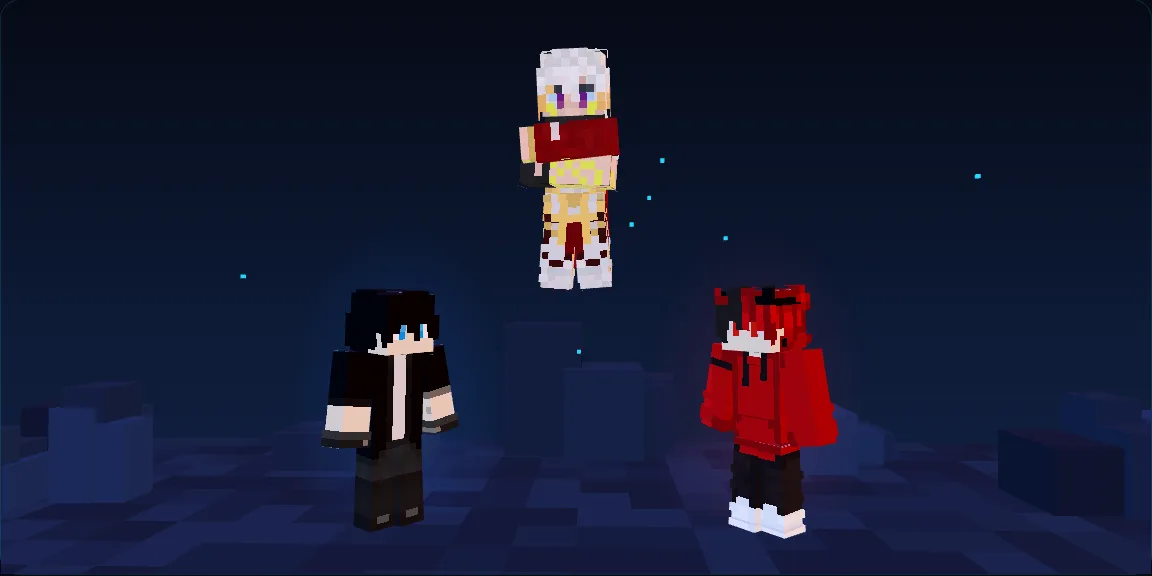
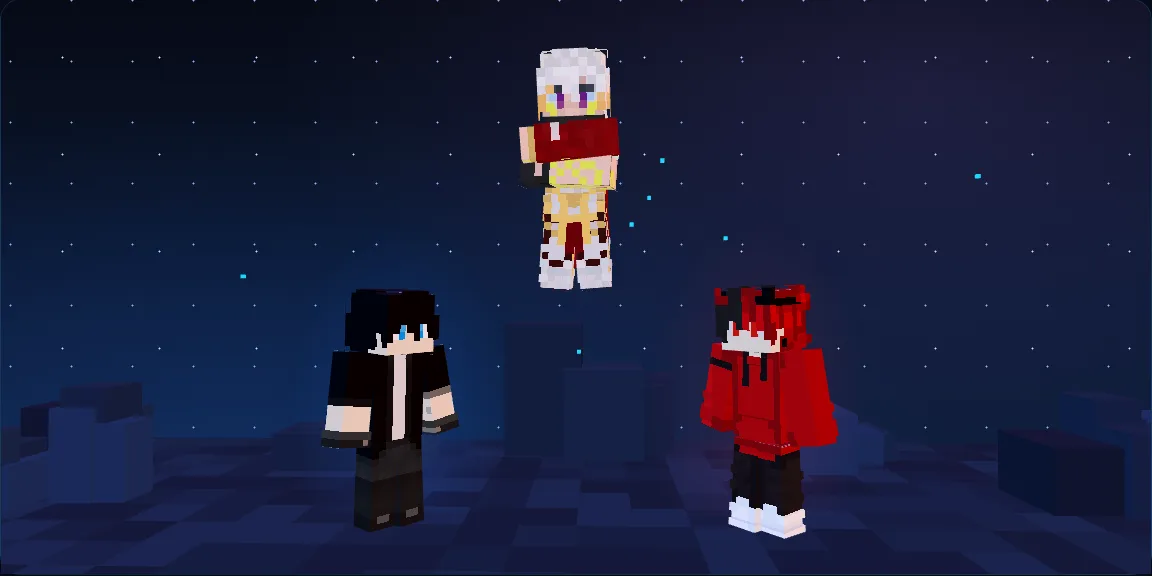
v4 fase G (e): ambiente com parcimonia (estrelas quadradas estaticas e nevoa nos palcos da batalha e da equipe, reflexo de borda de 1,2 s uma vez por visita) e poster da batalha atualizado

Changed region(s): [[0.625, 0.0, 0.9688, 0.3125], [0.0938, 0.625, 0.2812, 0.7812]]

diff --git a/web/src/app/globals.css b/web/src/app/globals.css
@@ -381,3 +381,34 @@ dialog.lightbox[open] {
 .apoio-card:has(:focus-visible) {
   box-shadow: 0 0 0 1px color-mix(in srgb, var(--luz) 18%, transparent), 0 0 24px color-mix(in srgb, var(--luz) 18%, transparent);
 }
+
+/* Ambiente (v4-03 §11.3): estrelas quadradas estáticas e névoa azul/violeta atrás das mídias (nunca sobre texto), e um reflexo
+   de borda de 1,2 s por visita. Sem parallax e sem movimento com "Reduzir animações". */
+.ambiente-palco {
+  background-image:
+    radial-gradient(ellipse at 20% 85%, rgba(22, 116, 255, 0.18), transparent 55%),
+    radial-gradient(ellipse at 80% 15%, rgba(165, 123, 250, 0.14), transparent 50%),
+    radial-gradient(#cfe7ff 0.8px, transparent 1.2px),
+    radial-gradient(#8fb8ff 0.8px, transparent 1.2px),
+    linear-gradient(180deg, #060a16 0%, #0d1a36 55%, #122344 100%);
+  background-size: auto, auto, 97px 97px, 61px 61px, auto;
+  background-position: 0 0, 0 0, 13px 9px, 40px 31px, 0 0;
+}
+.reflexo-borda {
+  position: absolute;
+  inset: 0 0 auto 0;
+  height: 2px;
+  pointer-events: none;
+  opacity: 0;
+  background: linear-gradient(90deg, transparent, #23d7ff, transparent);
+  background-size: 30% 100%;
+  background-repeat: no-repeat;
+  background-position: -40% 0;
+}
+.reflexo-borda[data-passando] {
+  animation: reflexo-passa 1.2s ease-in-out 1 both;
+}
+@keyframes reflexo-passa {
+  0% { opacity: 1; background-position: -40% 0; }
+  100% { opacity: 0; background-position: 140% 0; }
+}

diff --git a/web/src/components/batalha/batalha-secao.tsx b/web/src/components/batalha/batalha-secao.tsx
@@ -3,6 +3,7 @@
 import dynamic from "next/dynamic";
 import { useEffect, useRef, useState, useSyncExternalStore } from "react";
 import { CinemaView } from "@/components/cinema/cinema-view";
+import { ReflexoBorda } from "@/components/reflexo-borda";
 import { ReduzirAnimacoes } from "@/components/reduzir-animacoes";
 import { buttonClass } from "@/components/button";
 import { batalha } from "@/config/batalha";
@@ -76,10 +77,11 @@ export function BatalhaSecao() {
           A equipe em ação
         </h2>
         <figure className="mx-auto w-full max-w-[72rem]">
-          <div ref={palco}>
+          <div ref={palco} className="relative overflow-hidden rounded-xl">
+            <ReflexoBorda id="batalha" />
             <CinemaView
               alt={status === "parado" ? batalha.alt : batalha.ariaAnimada}
-              className={`relative w-full overflow-hidden rounded-xl border border-edge bg-bg bg-[linear-gradient(180deg,#060a16_0%,#0d1a36_55%,#122344_100%)] ${!com3d && !estatico && clipe ? "mx-auto aspect-[3/4] max-w-[26rem]" : "aspect-[2/1]"}`}
+              className={`ambiente-palco relative w-full overflow-hidden rounded-xl border border-edge bg-bg ${!com3d && !estatico && clipe ? "mx-auto aspect-[3/4] max-w-[26rem]" : "aspect-[2/1]"}`}
               mundo={{ largura: 2, altura: 1 }}
               cameraPropria
               habilitada={habilitada}

diff --git a/web/src/components/team-scene/team-scene.tsx b/web/src/components/team-scene/team-scene.tsx
@@ -3,6 +3,7 @@
 import dynamic from "next/dynamic";
 import { useEffect, useRef, useState } from "react";
 import { CinemaView } from "@/components/cinema/cinema-view";
+import { ReflexoBorda } from "@/components/reflexo-borda";
 import { GithubMark } from "@/components/github-mark";
 import { SkinFace } from "@/components/skin-viewer/skin-face";
 import { buttonClass } from "@/components/button";
@@ -100,9 +101,10 @@ function Desktop({ selecionada }: { selecionada: IdDaPessoa | null }) {
       <p className="mb-3 text-muted-foreground">Escolha uma pessoa para ver o perfil.</p>
       <div className="grid items-start gap-6 nav:grid-cols-[minmax(0,744fr)_minmax(0,384fr)]">
         <div className="min-w-0">
-          <div className="relative">
+          <div className="relative overflow-hidden rounded-xl">
+            <ReflexoBorda id="equipe" />
             <CinemaView
-              className="relative aspect-[744/420] w-full overflow-hidden rounded-xl border border-edge bg-bg bg-[radial-gradient(ellipse_at_50%_60%,color-mix(in_srgb,var(--du-brand-decor)_45%,transparent)_0%,transparent_70%)]"
+              className="ambiente-palco relative aspect-[744/420] w-full overflow-hidden rounded-xl border border-edge bg-bg"
               mundo={{ largura: 744, altura: 420 }}
               cameraPropria
               fallback={

diff --git a/web/src/components/reflexo-borda.tsx b/web/src/components/reflexo-borda.tsx
@@ -1,0 +1,27 @@
+"use client";
+
+import { useEffect, useRef } from "react";
+
+// Reflexo de borda (v4-03 §11.3): um brilho percorre a borda superior da mídia em 1,2 s ao entrar na seção, uma vez por visita
+// e por mídia. Sem movimento com "Reduzir animações" (o CSS global anula a animação). Decorativo.
+const jaFeitos = new Set<string>();
+
+export function ReflexoBorda({ id }: { id: string }) {
+  const ref = useRef<HTMLSpanElement>(null);
+  useEffect(() => {
+    const el = ref.current;
+    if (!el || jaFeitos.has(id)) return;
+    const io = new IntersectionObserver(
+      ([e]) => {
+        if (!e.isIntersecting) return;
+        jaFeitos.add(id);
+        el.dataset.passando = "true";
+        io.disconnect();
+      },
+      { threshold: 0.4 },
+    );
+    io.observe(el);
+    return () => io.disconnect();
+  }, [id]);
+  return <span ref={ref} aria-hidden="true" className="reflexo-borda" />;
+}
